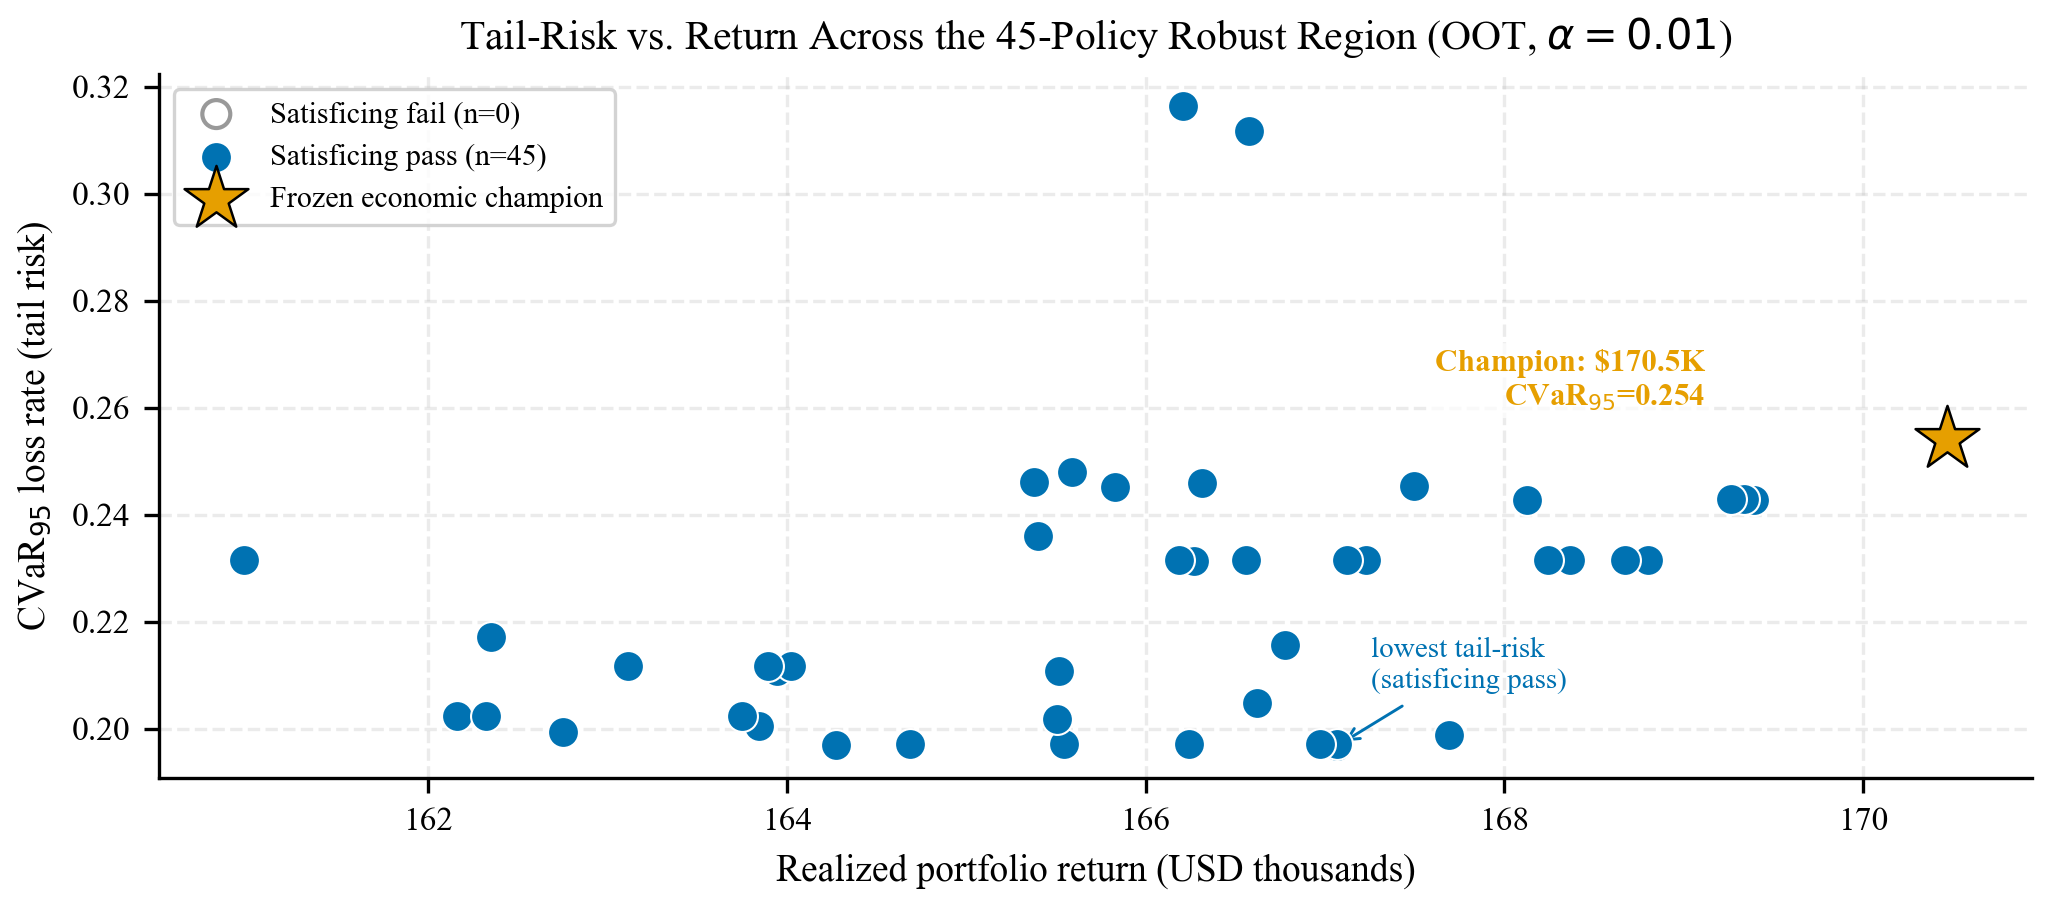
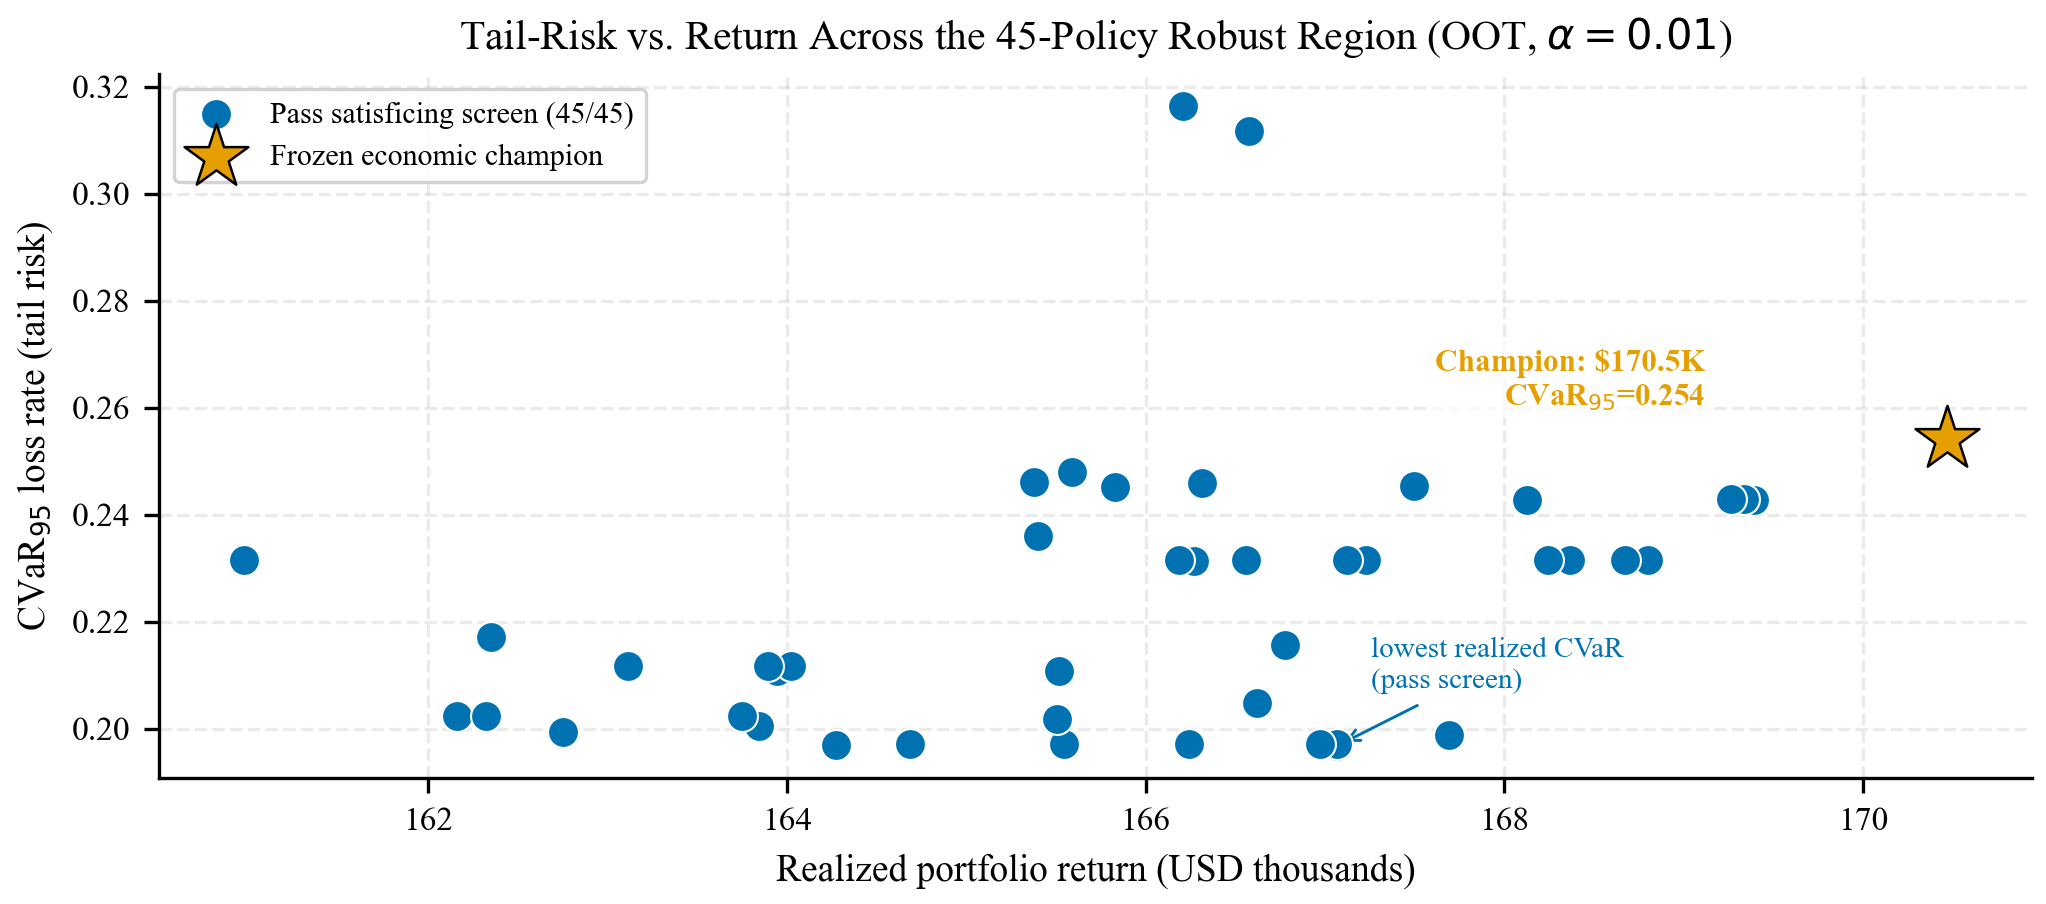
Polish IJDS tail-risk narrative and visuals
Polish IJDS tail-risk narrative and visuals

Squashed from PR #41.

Changed region(s): [[0.0924, 0.0929, 0.3079, 0.2788], [0.6774, 0.7124, 0.8006, 0.8053]]

diff --git a/book/styles.scss b/book/styles.scss
@@ -148,6 +148,31 @@ summary:focus-visible,
   line-height: 1.45;
 }
 
+#quarto-document-content .apa-figure-label {
+  display: block;
+  color: var(--crpto-muted);
+  font-weight: 700;
+}
+
+#quarto-document-content .apa-figure-title {
+  display: block;
+  color: var(--crpto-muted);
+  font-style: italic;
+  margin-top: 0.12rem;
+}
+
+#quarto-document-content .apa-figure-note,
+#quarto-document-content .figure-note {
+  color: var(--crpto-muted);
+  font-size: 0.86rem;
+  line-height: 1.45;
+  margin-top: 0.45rem;
+}
+
+#quarto-document-content .apa-note-label {
+  font-style: italic;
+}
+
 #quarto-document-content table {
   display: block;
   width: 100%;

diff --git a/paper/ijds.css b/paper/ijds.css
@@ -1,0 +1,20 @@
+@media screen {
+  table {
+    max-width: 100%;
+  }
+
+  th,
+  td,
+  th code,
+  td code {
+    overflow-wrap: anywhere;
+    white-space: normal;
+  }
+
+  .cell-output-display,
+  .quarto-table,
+  .table-responsive {
+    max-width: 100%;
+    overflow-x: auto;
+  }
+}

diff --git a/book/includes/apa-figures.html b/book/includes/apa-figures.html
@@ -24,8 +24,9 @@ document.addEventListener("DOMContentLoaded", () => {
       const match = text.match(/^(Figura\s+[0-9.]+):\s*(.+)$/);
       if (match) {
         const fullText = match[2];
-        // Split on first ". " to separate title from note
-        const splitIdx = fullText.indexOf(". ");
+        // Split on a sentence boundary, but do not break abbreviations such as "vs."
+        const sentenceBoundary = fullText.search(/\.\s+(?=[A-ZÁÉÍÓÚÑ])/);
+        const splitIdx = sentenceBoundary >= 0 ? sentenceBoundary : -1;
         let title, note;
         if (splitIdx > 20) {
           title = fullText.substring(0, splitIdx + 1);
@@ -38,6 +39,7 @@ document.addEventListener("DOMContentLoaded", () => {
         // Caption above: label + title only
         caption.innerHTML =
           `<span class="apa-figure-label">${match[1]}</span>` +
+          "\n" +
           `<span class="apa-figure-title">${title}</span>`;
 
         // Move caption to top of figure (above image)

diff --git a/scripts/generate_crpto_figures.py b/scripts/generate_crpto_figures.py
@@ -1350,16 +1350,20 @@ def _crpto_fig16_tail_risk_frontier() -> None:
     role = df["paper_role"].astype(str).to_numpy()
 
     fig, ax = plt.subplots(figsize=(COL2, HEIGHT_M))
-    ax.scatter(
-        ret[~passed],
-        cvar[~passed],
-        s=45,
-        facecolors="none",
-        edgecolors=PALETTE["gray"],
-        linewidths=1.0,
-        label=f"Satisficing fail (n={int((~passed).sum())})",
-        zorder=3,
-    )
+    fail_count = int((~passed).sum())
+    pass_count = int(passed.sum())
+    total_count = int(len(passed))
+    if fail_count:
+        ax.scatter(
+            ret[~passed],
+            cvar[~passed],
+            s=45,
+            facecolors="none",
+            edgecolors=PALETTE["gray"],
+            linewidths=1.0,
+            label=f"Satisficing fail (n={fail_count})",
+            zorder=3,
+        )
     ax.scatter(
         ret[passed],
         cvar[passed],
@@ -1367,7 +1371,9 @@ def _crpto_fig16_tail_risk_frontier() -> None:
         color=PALETTE["blue"],
         edgecolors="white",
         linewidths=0.5,
-        label=f"Satisficing pass (n={int(passed.sum())})",
+        label=f"Pass satisficing screen ({pass_count}/{total_count})"
+        if fail_count == 0
+        else f"Satisficing pass (n={pass_count})",
         zorder=4,
     )
     champ = role == "economic_champion"
@@ -1404,7 +1410,7 @@ def _crpto_fig16_tail_risk_frontier() -> None:
         idx = np.where(passed)[0]
         j = int(idx[np.argmin(cvar[idx])])
         ax.annotate(
-            "lowest tail-risk\n(satisficing pass)",
+            "lowest realized CVaR\n(pass screen)",
             (ret[j], cvar[j]),
             textcoords="offset points",
             xytext=(8, 14),

diff --git a/scripts/build_tail_satisficing_challenger_audit.py b/scripts/build_tail_satisficing_challenger_audit.py
@@ -1,4 +1,4 @@
-"""Build the tail-satisficing challenger audit from frozen CRPTO policies.
+"""Build the tail-risk robust-region audit from frozen CRPTO policies.
 
 This script re-solves the 45 already-shortlisted bound-aware policies with the
 Windows-safe HiGHS solver, scores each funded set with OCE/CVaR/satisficing
@@ -11,7 +11,6 @@ from __future__ import annotations
 import json
 import math
 import sys
-from datetime import UTC, datetime
 from pathlib import Path
 from typing import Any
 
@@ -68,6 +67,8 @@ TABLE_A21_NAME = "crpto_tableA21_cluster_bound_tightening"
 TABLE_A20_CSV = TABLE_DIR / f"{TABLE_A20_NAME}.csv"
 DEFAULT_LGD = 0.45
 DEFAULT_ALPHA = 0.01
+STATUS_SCHEMA_VERSION = "2026-05-12.2"
+REPRODUCIBLE_STATUS_TIMESTAMP = "2026-06-07T00:00:00+00:00"
 
 
 def _load_yaml(path: Path) -> dict[str, Any]:
@@ -460,16 +461,16 @@ def _build_cluster_bound_table(funded: pd.DataFrame) -> pd.DataFrame:
 
 
 def build_tail_satisficing_audit() -> dict[str, Any]:
-    start = datetime.now(tz=UTC)
     a20, a20_status = _build_a20_table()
     a21 = _build_cluster_bound_table(pd.read_csv(FUNDED_LOANS_PATH))
     artifacts = []
     artifacts += _write_table(TABLE_A20_NAME, a20)
     artifacts += _write_table(TABLE_A21_NAME, a21)
     status = {
-        "schema_version": "2026-05-12.1",
-        "generated_at_utc": datetime.now(tz=UTC).isoformat(),
-        "elapsed_sec": (datetime.now(tz=UTC) - start).total_seconds(),
+        "schema_version": STATUS_SCHEMA_VERSION,
+        "generated_at_utc": REPRODUCIBLE_STATUS_TIMESTAMP,
+        "elapsed_sec": 0.0,
+        "timestamp_policy": "fixed_for_bit_reproducible_manifest",
         "generated_artifacts": [
             str(path.relative_to(ROOT)).replace("\\", "/") for path in artifacts
         ],

diff --git a/paper/submission/CRPTO_ijds_submission.tex b/paper/submission/CRPTO_ijds_submission.tex
@@ -787,7 +787,7 @@ frontier, not the lowest-tail policy.
     Policy & Realized return & $\Delta$ return & CVaR$_{95}$ & $\Delta$ CVaR \\
     \midrule
     Economic champion (frozen)          & \$170{,}464.54 & $0.0\%$   & $0.2542$ & $0.0\%$ \\
-    Top tail-satisficing challenger (A20) & \$167{,}069.48 & $-1.99\%$ & $0.1968$ & $-22.58\%$ \\
+    Lowest realized-CVaR robust-region policy (A20) & \$167{,}069.48 & $-1.99\%$ & $0.1968$ & $-22.58\%$ \\
     Tightest CVaR-capped policy (A22)   & \$160{,}978.00 & $-5.57\%$ & $0.4061$ & cap-binding \\
     \bottomrule
   \end{tabular}
@@ -818,7 +818,7 @@ sensitivity, decision-aware conformal selector checks, synthetic-shift diagnosti
 conformal finalist exact evaluation, tail-risk OCE/CVaR diagnostics, satisficing
 margins, dependency clusters, bootstrap funded-set metrics, budget/LGD/cap sensitivity,
 and robust-region summaries by policy family, plus the A19 regret-auditability frontier,
-A20 tail-satisficing challenger audit, A21 cluster-bound tightening audit, A22 CVaR/OCE
+A20 tail-risk robust-region audit, A21 cluster-bound tightening audit, A22 CVaR/OCE
 tail-constrained re-optimization, and A23--A24 multi-distribution and online (ACI)
 conformal-stability diagnostics, plus A25--A34 external economic replication,
 exhaustiveness, interval, subperiod, and sensitivity audits.

diff --git a/tests/test_scripts/test_tail_satisficing_challenger_audit.py b/tests/test_scripts/test_tail_satisficing_challenger_audit.py
@@ -13,6 +13,10 @@ def test_tail_satisficing_audit_artifacts_exist() -> None:
     assert status_path.exists()
     status = json.loads(status_path.read_text(encoding="utf-8"))
 
+    assert status["schema_version"] == "2026-05-12.2"
+    assert status["generated_at_utc"] == "2026-06-07T00:00:00+00:00"
+    assert status["elapsed_sec"] == 0.0
+    assert status["timestamp_policy"] == "fixed_for_bit_reproducible_manifest"
     assert status["champion_promotion_changed"] is False
     assert status["tail_satisficing_audit"]["n_policies_audited"] == 45
     assert status["tail_satisficing_audit"]["promotion_status"] == (

diff --git a/scripts/build_crpto_journal_package.py b/scripts/build_crpto_journal_package.py
@@ -921,7 +921,7 @@ def _write_markdown_dossier(status: dict[str, Any]) -> Path:
         "| A17 budget/LGD/cap sensitivity | Checks practical sensitivity to budget, LGD and segment caps. | Cap checks are diagnostics, not solver constraints. |",
         "| A18 robust region by family | Summarizes the `45/45` alpha01-safe region by `risk_tolerance x gamma`. | Bound-aware family only. |",
         "| A19 regret-auditability frontier | Compares two-stage, SPO+ and CRPTO robust on regret versus verifiable risk controls. | Trade-off diagnostic, not a new champion selector. |",
-        "| A20 tail-satisficing challenger | Re-solves the 45 alpha-safe policies and ranks a CVaR/OCE/satisficing challenger. | Generated separately; audit only, no champion promotion. |",
+        "| A20 tail-risk robust-region audit | Re-solves the 45 alpha-safe policies and ranks CVaR/OCE/return trade-offs inside the robust region. | Generated separately; audit only, no champion promotion. |",
         "| A21 cluster-bound tightening | Quantifies cluster-aware Hoeffding thresholds. | Transparent caveat, not tighter than Markov here. |",
         "| A22 tail-constrained re-optimization | Turns CVaR/OCE into an active tail constraint over the 45-policy robust region. | Tail-constrained challenger, not a new champion. |",
         "| A23 multi-distribution robustness | Reports worst-case coverage by grade and grade x vintage. | Diagnostic stress, not a new calibration protocol. |",

diff --git a/scripts/render_submission_pdf_previews.py b/scripts/render_submission_pdf_previews.py
@@ -59,6 +59,8 @@ def render_pdf(chrome: Path, html_path: Path, pdf_path: Path) -> None:
         "--no-sandbox",
         "--no-pdf-header-footer",
         "--print-to-pdf-no-header",
+        "--run-all-compositor-stages-before-draw",
+        "--virtual-time-budget=10000",
         f"--print-to-pdf={pdf_path}",
         html_path.resolve().as_uri(),
     ]

diff --git a/docs/research/crpto_journal_package_2026-05-04.md b/docs/research/crpto_journal_package_2026-05-04.md
@@ -76,7 +76,7 @@ and `scripts/generate_crpto_figures.py`.
 | A17 budget/LGD/cap sensitivity | Checks practical sensitivity to budget, LGD and segment caps. | Cap checks are diagnostics, not solver constraints. |
 | A18 robust region by family | Summarizes the `45/45` alpha01-safe region by `risk_tolerance x gamma`. | Bound-aware family only. |
 | A19 regret-auditability frontier | Compares two-stage, SPO+ and CRPTO robust on regret versus verifiable risk controls. | Trade-off diagnostic, not a new champion selector. |
-| A20 tail-satisficing challenger | Re-solves the 45 alpha-safe policies and ranks a CVaR/OCE/satisficing challenger. | Generated separately; audit only, no champion promotion. |
+| A20 tail-risk robust-region audit | Re-solves the 45 alpha-safe policies and ranks CVaR/OCE/return trade-offs inside the robust region. | Generated separately; audit only, no champion promotion. |
 | A21 cluster-bound tightening | Quantifies cluster-aware Hoeffding thresholds. | Transparent caveat, not tighter than Markov here. |
 | A22 tail-constrained re-optimization | Turns CVaR/OCE into an active tail constraint over the 45-policy robust region. | Tail-constrained challenger, not a new champion. |
 | A23 multi-distribution robustness | Reports worst-case coverage by grade and grade x vintage. | Diagnostic stress, not a new calibration protocol. |

diff --git a/paper/README.md b/paper/README.md
@@ -25,7 +25,7 @@ the submission-shaped versions are written.
 
 Selected P2/P3-inspired diagnostics are part of the current paper/journal pack:
 regret-auditability, OCE/CVaR tail risk, robust satisficing margins, and the
-dependence-aware caveat. The tail-satisficing challenger audit and cluster-bound
+dependence-aware caveat. The tail-risk robust-region audit and cluster-bound
 table are supplement-only add-ons. The active submission still uses the frozen CRPTO
 result plus supplement evidence generated from existing artifacts; future
 online, causal, multi-distribution, multi-dataset, production, or package tracks